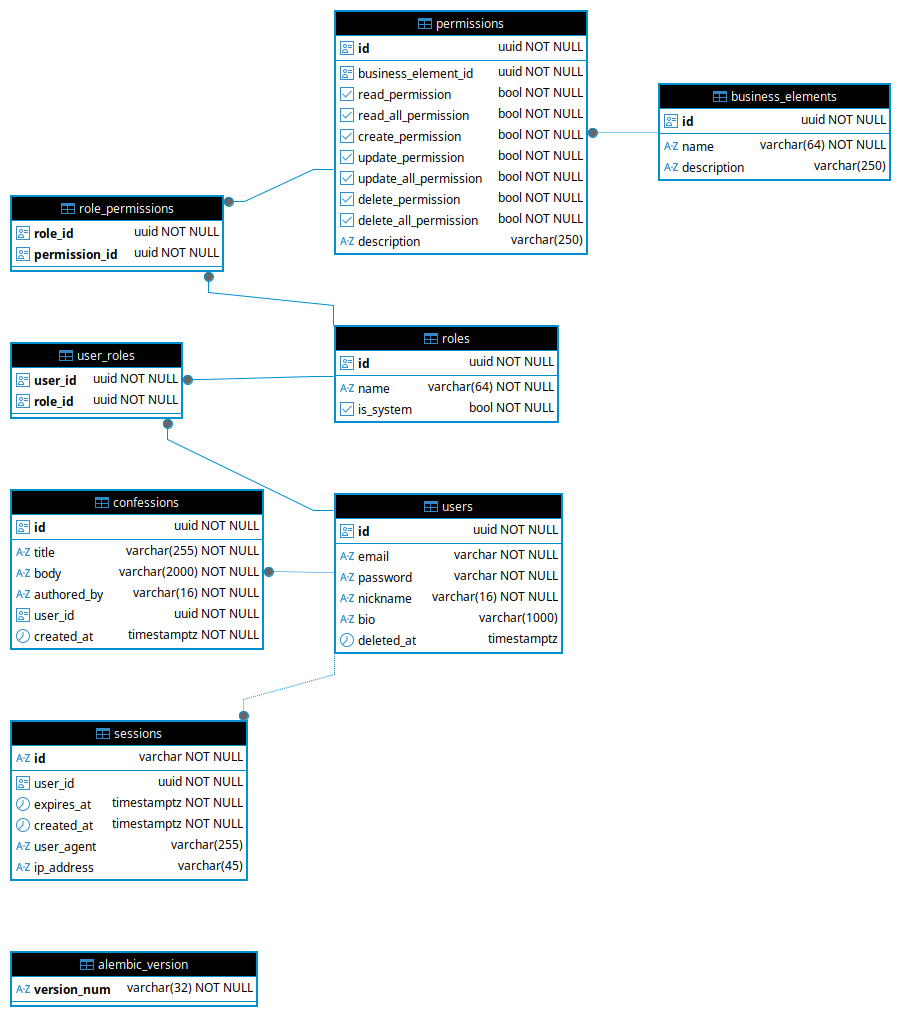
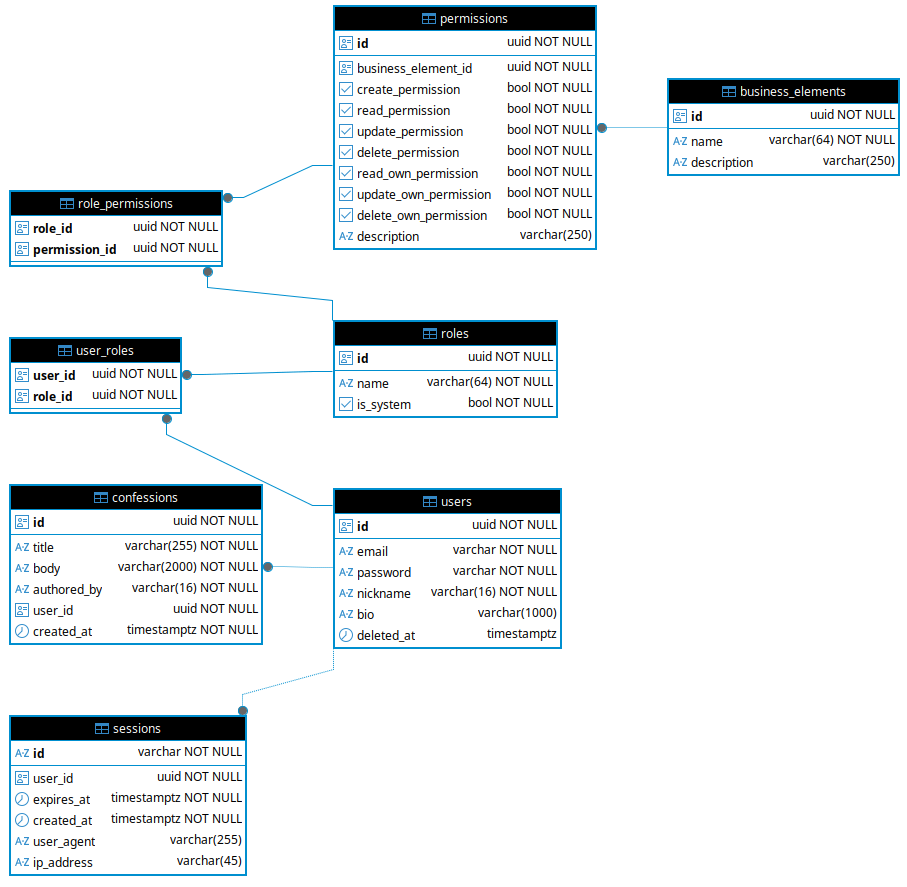
docs: edit readme

diff --git a/README.md b/README.md
@@ -101,8 +101,8 @@
 ### Пользователи (/users)
 
 * **GET** `/users/{identifier}` — Получение профиля (по UUID или Email)  
-* **PATCH** `/users/{id}` — Частичное обновление своих данных (nickname, bio)  
-* **POST** `/users/{id}/change-password` — Смена пароля (требует старый пароль)  
+* **PATCH** `/users/{id}` — Частичное обновление данных (nickname, bio, email)  
+* **POST** `/users/me/change-password` — Смена пароля (требует старый пароль)  
 * **DELETE** `/users/me` — Удаление собственного аккаунта ("мягкое" удаление)  
 
 ---
@@ -125,18 +125,18 @@
 
 * **GET** `/admin/users/` — Список всех зарегистрированных пользователей  
 * **DELETE** `/admin/users/{user_id}` — Удаление пользователя  
-* **GET** `/admin/users/{id}/permissions` — Просмотр всех прав пользователя  
-* **POST** `/admin/users/{id}/assign-role/{role_id}` — Назначить роль пользователю  
-* **POST** `/admin/users/{id}/revoke-role/{role_id}` — Отозвать роль у пользователя  
+* **GET** `/admin/users/{user_id}/permissions` — Просмотр всех прав пользователя  
+* **POST** `/admin/users/{user_id}/assign-role/{role_id}` — Назначить роль пользователю  
+* **POST** `/admin/users/{user_id}/revoke-role/{role_id}` — Отозвать роль у пользователя  
 
 #### Управление ролями и правами
 
 * **GET** `/admin/roles/` — Список всех ролей  
 * **POST** `/admin/roles/` — Создание новой роли  
-* **PATCH** `/admin/roles/{id}` — Переименование роли (кроме системных)  
-* **DELETE** `/admin/roles/{id}` — Удаление роли (кроме системных)
-* **POST** `/admin/roles/{id}/assign-permission/{permission_id}` — Назначить разрешение роли  
-* **POST** `/admin/roles/{id}/revoke-permission/{permission_id}` — Убрать разрешение у роли  
+* **PATCH** `/admin/roles/{role_id}` — Переименование роли (кроме системных)  
+* **DELETE** `/admin/roles/{role_id}` — Удаление роли (кроме системных)
+* **POST** `/admin/roles/{role_id}/assign-permission/{permission_id}` — Назначить разрешение роли  
+* **POST** `/admin/roles/{role_id}/revoke-permission/{permission_id}` — Убрать разрешение у роли  
 * **GET** `/admin/permissions/` — Список всех разрешений системы  
 * **GET** `/admin/business-elements/` — Список бизнес-элементов системы  
 
@@ -164,7 +164,7 @@
 Ограничения:
 
 * Последний администратор в системе не может быть удалён или снят
-* Системные роли `admin` и `user` не могут быть удалены
+* Системные роли `admin` и `user` не могут быть удалены / изменены
 
 ## Структура проекта
 
